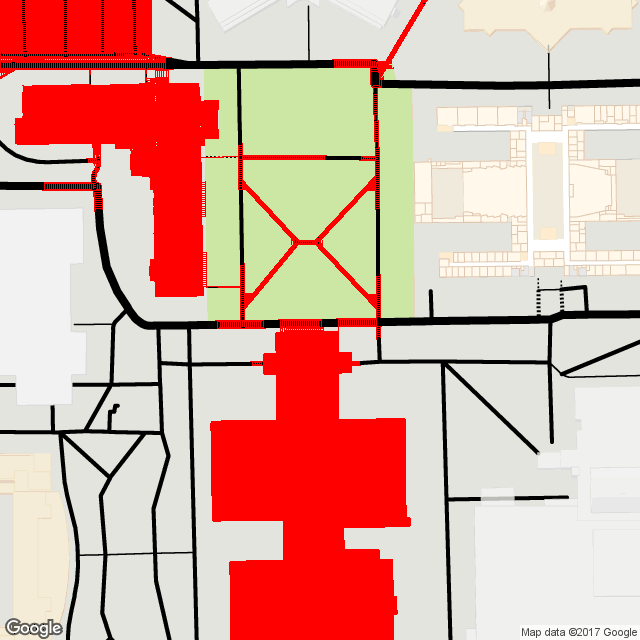
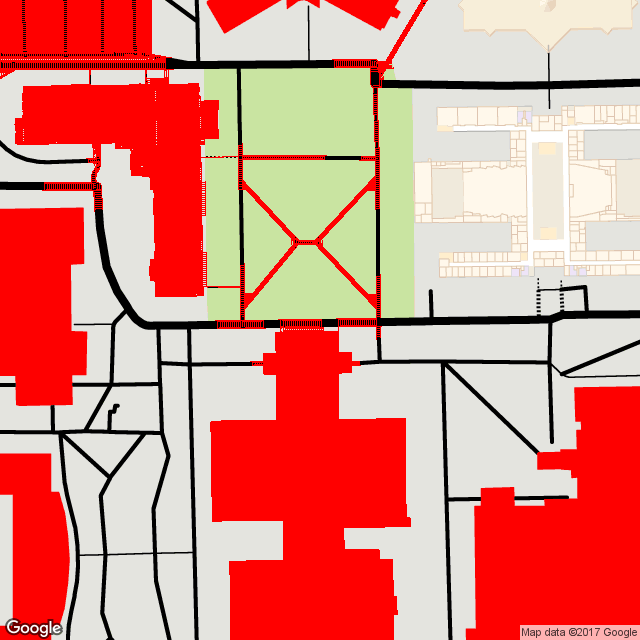
working on tests

diff --git a/src/server/APITools.java b/src/server/APITools.java
@@ -7,9 +7,7 @@ import java.io.IOException;
 import java.io.UnsupportedEncodingException;
 import java.net.URL;
 import java.net.URLEncoder;
-import java.util.ArrayList;
 import java.util.List;
-import java.util.Random;
 
 import javax.imageio.ImageIO;
 
@@ -231,9 +229,9 @@ public class APITools {
 
 	public static Point2D.Double getImagePointFromLatLng(LatLng location, LatLng southwest, LatLng northeast, int sizeX,
 			int sizeY) {
-		return  getImagePointFromLatLng(location, southwest, northeast, sizeX,
-				sizeY, false);
+		return getImagePointFromLatLng(location, southwest, northeast, sizeX, sizeY, false);
 	}
+
 	public static Point2D.Double getImagePointFromLatLng(LatLng location, LatLng southwest, LatLng northeast, int sizeX,
 			int sizeY, boolean quiet) {
 		if (location.latitude > northeast.latitude || location.longitude > northeast.longitude
@@ -246,11 +244,12 @@ public class APITools {
 		double latProportion = (location.latitude - southwest.latitude) / (northeast.latitude - southwest.latitude);
 		return new Point2D.Double((sizeX - 1) * lonProportion, (sizeY - 1) - ((sizeY - 1) * latProportion));
 	}
+
 	public static Point getImagePointFromLatLngNorm(LatLng location, LatLng southwest, LatLng northeast, int sizeX,
 			int sizeY) {
-		return  getImagePointFromLatLngNorm(location, southwest, northeast, sizeX,
-				sizeY, false);
+		return getImagePointFromLatLngNorm(location, southwest, northeast, sizeX, sizeY, false);
 	}
+
 	public static Point getImagePointFromLatLngNorm(LatLng location, LatLng southwest, LatLng northeast, int sizeX,
 			int sizeY, boolean quiet) {
 		if (location.latitude > northeast.latitude || location.longitude > northeast.longitude
@@ -261,10 +260,9 @@ public class APITools {
 		}
 		double lonProportion = (location.longitude - southwest.longitude) / (northeast.longitude - southwest.longitude);
 		double latProportion = (location.latitude - southwest.latitude) / (northeast.latitude - southwest.latitude);
-		return new Point((int)((sizeX - 1) * lonProportion), (int)((sizeY - 1) - ((sizeY - 1) * latProportion)));
+		return new Point((int) ((sizeX - 1) * lonProportion), (int) ((sizeY - 1) - ((sizeY - 1) * latProportion)));
 	}
-	
-	
+
 	public static BufferedImage DownloadStaticMapImage(LatLng start, LatLng end, int sizeX, int sizeY,
 			boolean isSatellite) {
 		return DownloadStaticMapImage(start, end, sizeX, sizeY, getAppropriateZoom(start, end, sizeX, sizeY),
@@ -287,13 +285,16 @@ public class APITools {
 		return DownloadStaticMapImage(Tools.getCenter(start, end), sizeX, sizeY, zoom, isSatellite, polyline);
 	}
 
-	private static String getRoadParam()
-	{
+	private static String getBuildingParam() {
+		return "&style=feature:landscape.man_made|color:" + Tools.toRGBHex(Config.MAPS_BUILDING_RGB);
+	}
+
+	private static String getRoadParam() {
 		return "&style=feature:road|color:" + Tools.toRGBHex(Config.MAPS_NORMALPATH_RGB);
 	}
-	
-	public static BufferedImage DownloadStaticMapImage(LatLng center, int sizeX, int sizeY, int zoom, boolean isSatellite, String polyline)
-	{
+
+	public static BufferedImage DownloadStaticMapImage(LatLng center, int sizeX, int sizeY, int zoom,
+			boolean isSatellite, String polyline) {
 		try {
 			URL url;
 
@@ -304,8 +305,9 @@ public class APITools {
 							+ generic.Config.STATICMAP_KEY);
 				else
 					url = new URL(
-							"https://maps.googleapis.com/maps/api/staticmap?maptype=roadmap&style=feature:all|element:labels|visibility:off"+ getRoadParam() + "&zoom="
-									+ zoom + "&center=" + center.toUrlValue() + "&size=" + sizeX + "x" + sizeY + "&key="
+							"https://maps.googleapis.com/maps/api/staticmap?maptype=roadmap&style=feature:all|element:labels|visibility:off"
+									+ getRoadParam() + getBuildingParam() + "&zoom=" + zoom + "&center="
+									+ center.toUrlValue() + "&size=" + sizeX + "x" + sizeY + "&key="
 									+ generic.Config.STATICMAP_KEY);
 			} else {
 				if (isSatellite)
@@ -314,8 +316,8 @@ public class APITools {
 							+ polylineToURLParam(polyline, 3, "red") + "&key=" + generic.Config.STATICMAP_KEY);
 				else
 					url = new URL(
-							"https://maps.googleapis.com/maps/api/staticmap?maptype=roadmap&style=feature:all|element:labels|visibility:off"+ getRoadParam() +"&center="
-									+ center.toUrlValue() + "&size=" + sizeX + "x" + sizeY
+							"https://maps.googleapis.com/maps/api/staticmap?maptype=roadmap&style=feature:all|element:labels|visibility:off"
+									+ getRoadParam() + "&center=" + center.toUrlValue() + "&size=" + sizeX + "x" + sizeY
 									+ polylineToURLParam(polyline, 3, "red") + "&key=" + generic.Config.STATICMAP_KEY);
 			}
 
@@ -328,90 +330,87 @@ public class APITools {
 			return null;
 		}
 	}
-	
-	public static BufferedImage GetTiledImage(LatLng southwest, LatLng northeast, int zoom, boolean isSatellite)
-	{
+
+	public static BufferedImage GetTiledImage(LatLng southwest, LatLng northeast, int zoom, boolean isSatellite) {
 		assert southwest.latitude < northeast.latitude;
 		assert southwest.longitude < northeast.longitude;
-		
+
 		LatLng deadCenter = Tools.getCenter(southwest, northeast);
 		double totalSpanningMetersLat = APITools.getLatitudeDifference(southwest, northeast);
 		double totalSpanningMetersLon = APITools.getLongitudeDifference(southwest, northeast);
-		
+
 		double metersPerPixel = getMetersPerPixel(deadCenter.latitude, zoom);
 		double metersSliceLon = metersPerPixel * Config.GOOGLE_MAX_IMAGE_DIMENSIONS_PIXELS;
 		double metersSliceLat = metersSliceLon - (metersPerPixel * Config.GOOGLE_LOGO_HEIGHT);
-		
-		int imageWidth = (int)((1 / metersPerPixel) * totalSpanningMetersLon);
-		int imageHeight = (int)((1 / metersPerPixel) * totalSpanningMetersLat);
+
+		int imageWidth = (int) ((1 / metersPerPixel) * totalSpanningMetersLon);
+		int imageHeight = (int) ((1 / metersPerPixel) * totalSpanningMetersLat);
 		BufferedImage totalImage = new BufferedImage(imageWidth, imageHeight, BufferedImage.TYPE_BYTE_INDEXED);
 		totalImage = Tools.convertICCToRGB(totalImage);
-		
-		//These constructor arguments don't really matter
+
+		// These constructor arguments don't really matter
 		LatLng currSouthwest = new LatLng(southwest);
 		LatLng currNortheast = new LatLng(northeast);
-		
-		
+
 		int counterTEMP = 0;
 		int iterX = 0;
 		int iterY = 0;
 		int spacingX = -1;
 		int spacingY = -1;
-	
-		for (double spannedMetersLat = 0; spannedMetersLat < totalSpanningMetersLat; spannedMetersLat += metersSliceLat, iterY++)
-		{
+
+		for (double spannedMetersLat = 0; spannedMetersLat < totalSpanningMetersLat; spannedMetersLat += metersSliceLat, iterY++) {
 			currSouthwest.latitude = APITools.metersToLat(southwest, spannedMetersLat);
 			currNortheast.latitude = APITools.metersToLat(currSouthwest, metersSliceLat);
 			iterX = 0;
-			for (double spannedMetersLon = 0; spannedMetersLon < totalSpanningMetersLon; spannedMetersLon += metersSliceLon, iterX++)
-			{
+			for (double spannedMetersLon = 0; spannedMetersLon < totalSpanningMetersLon; spannedMetersLon += metersSliceLon, iterX++) {
 				currSouthwest.longitude = APITools.metersToLon(southwest, spannedMetersLon);
 				currNortheast.longitude = APITools.metersToLon(currSouthwest, metersSliceLon);
 				LatLng currCenter = Tools.getCenter(currSouthwest, currNortheast);
-				
-				
-				BufferedImage sliceImg = APITools.DownloadStaticMapImage(currCenter, Config.GOOGLE_MAX_IMAGE_DIMENSIONS_PIXELS, Config.GOOGLE_MAX_IMAGE_DIMENSIONS_PIXELS, zoom, isSatellite, null);
+
+				BufferedImage sliceImg = APITools.DownloadStaticMapImage(currCenter,
+						Config.GOOGLE_MAX_IMAGE_DIMENSIONS_PIXELS, Config.GOOGLE_MAX_IMAGE_DIMENSIONS_PIXELS, zoom,
+						isSatellite, null);
 				sliceImg = Tools.ClipLogo(sliceImg);
-				
-				Tools.WriteImage(sliceImg, "testImages/TILEDTEST_"+ (++counterTEMP) +".png");
-				
+
+				Tools.WriteImage(sliceImg, "testImages/TILEDTEST_" + (++counterTEMP) + ".png");
+
 				System.out.println("slice w: " + sliceImg.getWidth() + ", slice h: " + sliceImg.getHeight());
-				
+
 				Point startPoint;
 				Point endPoint;
-				if (spacingX == -1)
-				{
-					startPoint = APITools.getImagePointFromLatLngNorm(currSouthwest, southwest, northeast, imageWidth, imageHeight);
-					LatLng boundedNortheast = new LatLng(Math.min(northeast.latitude, currNortheast.latitude), Math.min(northeast.longitude, currNortheast.longitude));
-					endPoint = APITools.getImagePointFromLatLngNorm(boundedNortheast, southwest, northeast, imageWidth, imageHeight);
-					spacingX = (int)(endPoint.x - startPoint.x);
-					spacingY = (int)(startPoint.y - endPoint.y);
-				}
-				else
-				{
+				if (spacingX == -1) {
+					startPoint = APITools.getImagePointFromLatLngNorm(currSouthwest, southwest, northeast, imageWidth,
+							imageHeight);
+					LatLng boundedNortheast = new LatLng(Math.min(northeast.latitude, currNortheast.latitude),
+							Math.min(northeast.longitude, currNortheast.longitude));
+					endPoint = APITools.getImagePointFromLatLngNorm(boundedNortheast, southwest, northeast, imageWidth,
+							imageHeight);
+					spacingX = (int) (endPoint.x - startPoint.x);
+					spacingY = (int) (startPoint.y - endPoint.y);
+				} else {
 					startPoint = new Point(spacingX * iterX, (imageHeight - 1) - spacingY * iterY);
-					endPoint = new Point(Math.min(spacingX * (iterX + 1), imageWidth - 1), Math.max((imageHeight - 1) - spacingY * (iterY + 1), 0));
+					endPoint = new Point(Math.min(spacingX * (iterX + 1), imageWidth - 1),
+							Math.max((imageHeight - 1) - spacingY * (iterY + 1), 0));
 				}
-				
+
 				System.out.println("start: " + startPoint.toString());
 				System.out.println("end: " + endPoint.toString());
-				
-				if ((int)(endPoint.x - startPoint.x) == spacingX && (int)(startPoint.y - endPoint.y) == spacingY)
-					Tools.DrawOnImage(totalImage, sliceImg, (int)startPoint.x, (int)endPoint.y, true);
-				else
-				{
-					int trueHeight = (int)(startPoint.y - endPoint.y) + 1;
-					int trueWidth = (int)(endPoint.x - startPoint.x);
-					
-					BufferedImage trueCrop = sliceImg.getSubimage(0, sliceImg.getHeight() - trueHeight, trueWidth, trueHeight);
-					Tools.DrawOnImage(totalImage, trueCrop, (int)startPoint.x, (int)endPoint.y, true);
+
+				if ((int) (endPoint.x - startPoint.x) == spacingX && (int) (startPoint.y - endPoint.y) == spacingY)
+					Tools.DrawOnImage(totalImage, sliceImg, (int) startPoint.x, (int) endPoint.y, true);
+				else {
+					int trueHeight = (int) (startPoint.y - endPoint.y) + 1;
+					int trueWidth = (int) (endPoint.x - startPoint.x);
+
+					BufferedImage trueCrop = sliceImg.getSubimage(0, sliceImg.getHeight() - trueHeight, trueWidth,
+							trueHeight);
+					Tools.DrawOnImage(totalImage, trueCrop, (int) startPoint.x, (int) endPoint.y, true);
 				}
 				Tools.WriteImage(totalImage, "testImages/TOTALTEST_" + (counterTEMP) + ".png");
-				
+
 			}
 		}
 		return totalImage;
-		
-		
+
 	}
 }

diff --git a/tests/server/GraphTests.java b/tests/server/GraphTests.java
@@ -229,4 +229,54 @@ public class GraphTests {
 		Tools.WriteImage(filled, "testImages/analyzeTest1.png");
 	}
 
+	@Test
+	public void findPathTest() {
+		LatLng start = new LatLng(40.249773, -111.650217);
+		LatLng end = new LatLng(40.249798, -111.649540);
+		LatLng center = Tools.getCenter(start, end);
+		int sizeX = 640;
+		int sizeY = 640;
+		int zoom = APITools.getAppropriateZoom(start, end, sizeX, sizeY);
+
+		String resp;
+
+		resp = APITools.GetDirectionsResponse(start.toUrlValue(), end.toUrlValue());
+		String[] polyPieces = server.APITools.GetPolylinePieces(resp);
+		String poly = server.APITools.GetOverviewPolyline(resp);
+		List<Node> nodes = generic.GraphTools.CreateNodesFromPolyline(polyPieces);
+		nodes.get(0).setStart(true);
+		nodes.get(nodes.size() - 1).setEnd(true);
+		BufferedImage img = server.APITools.DownloadStaticMapImage(start, end, sizeX, sizeY, zoom, false);
+
+		double metersPerPixel = APITools.getMetersPerPixel(center.latitude, zoom);
+		LatLng southwest = APITools.getSouthwest(center, metersPerPixel, sizeX, sizeY);
+		LatLng northeast = APITools.getNortheast(center, metersPerPixel, sizeX, sizeY);
+		LatLng buildingPoint = new LatLng(40.249603, -111.650054); // JKB
+		// BufferedImage filled = ColorOperations.filledImage(img, new
+		// Color(Config.MAPS_BUILDING_RGB), southwest,
+		// northeast, buildingPoint);
+		// buildingPoint = new LatLng(40.249403, -111.651154); // TALMAGE
+		// filled = ColorOperations.filledImage(filled, new
+		// Color(Config.MAPS_BUILDING_RGB), southwest, northeast,
+		// buildingPoint);
+		Tools.WriteImage(img, "testImages/b2.png");
+
+		// List<Node> newNodes = generic.GraphTools.GenerateRandomNodes(nodes,
+		// 10, southwest, northeast);
+		// nodes.addAll(newNodes);
+		// Graph g = new Graph(null, null, nodes);
+		// g.setDistancesFromNodes();
+		// g.setElevationsFromNodes();
+		// Node startNode = g.getNodes().get(g.getStartIndex());
+		// Node endNode = g.getNodes().get(g.getEndIndex());
+		//
+		// List<Integer> path = GraphTools.dijkstra(g.getStartIndex(), g,
+		// g.getEndIndex());
+		// List<Node> nodesToDraw = g.getNodesFromPath(path);
+		//
+		// GraphTools.DrawLines(filled, nodesToDraw, Color.BLUE, 3, southwest,
+		// northeast, Color.ORANGE, g);
+
+	}
+
 }

diff --git a/src/generic/Graph.java b/src/generic/Graph.java
@@ -58,7 +58,6 @@ public class Graph extends WalkerObject {
 				grass[i][j] = pc.grass;
 			}
 		}
-
 	}
 
 	public void sumMatricies(UserPrefs up) {
